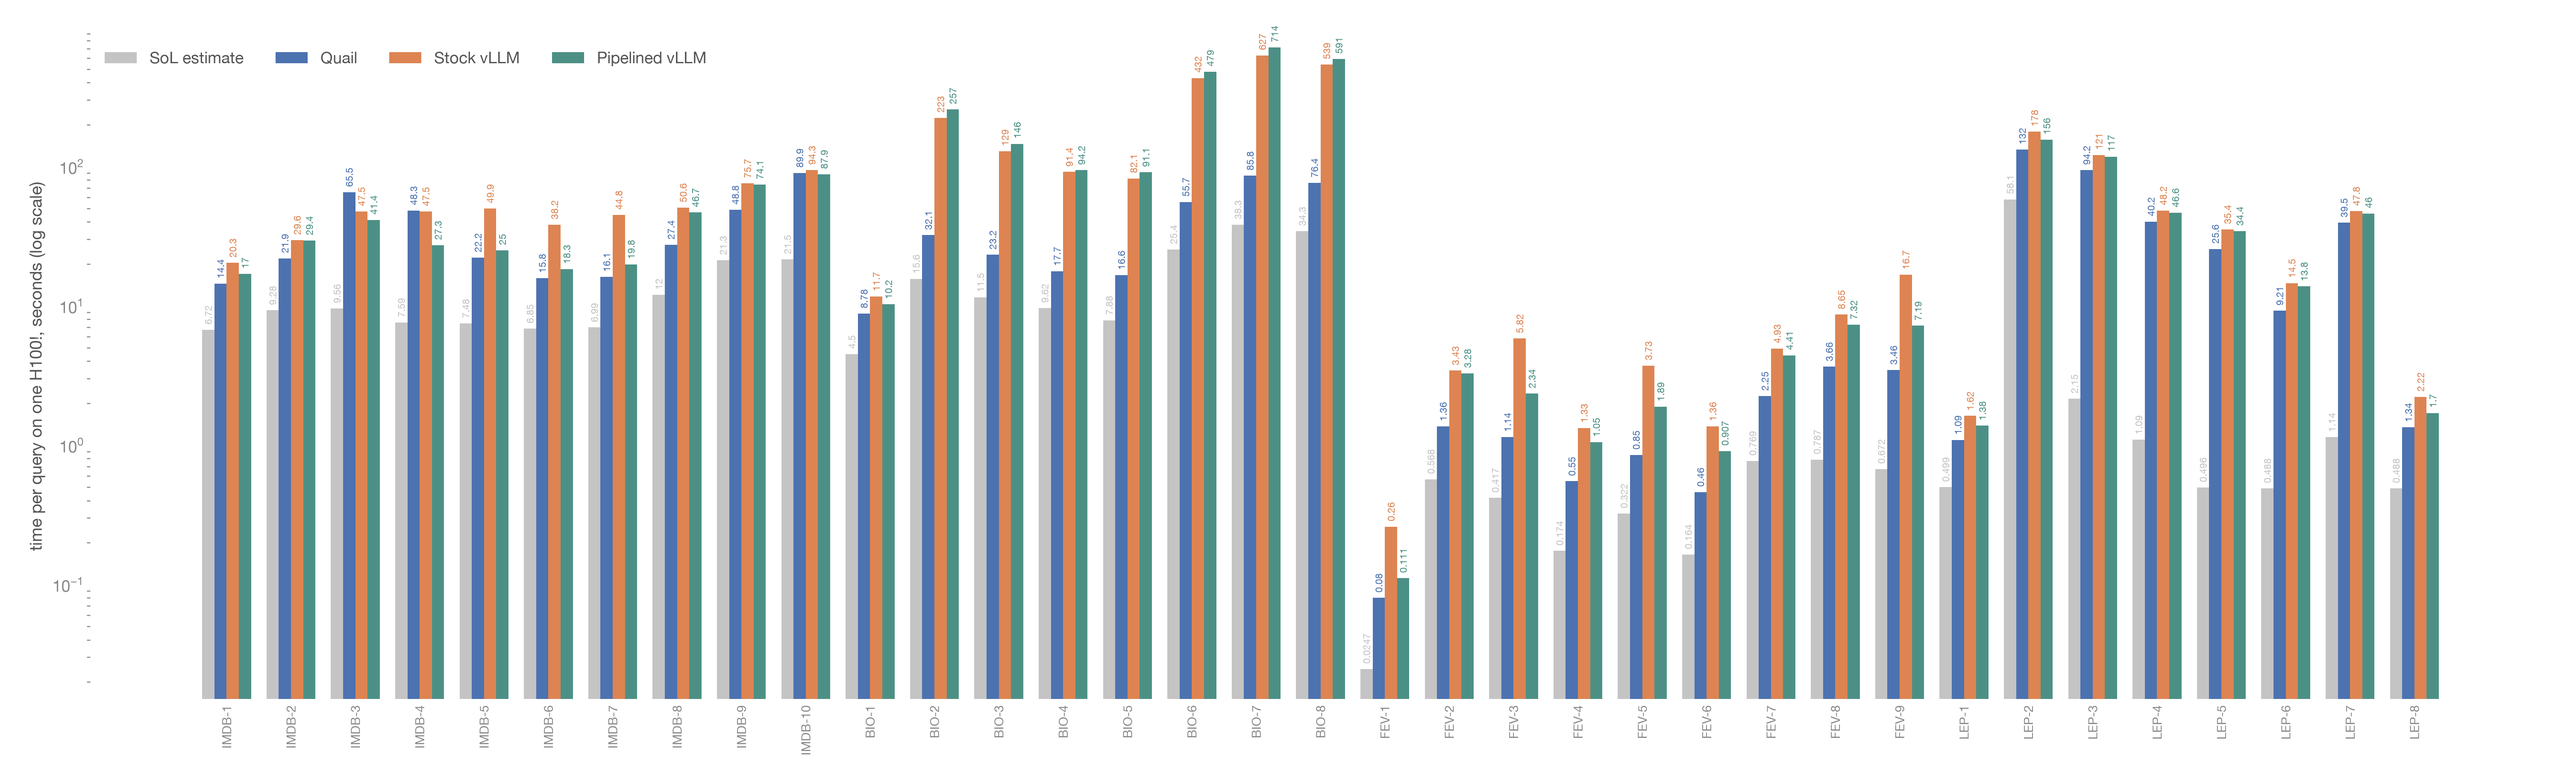
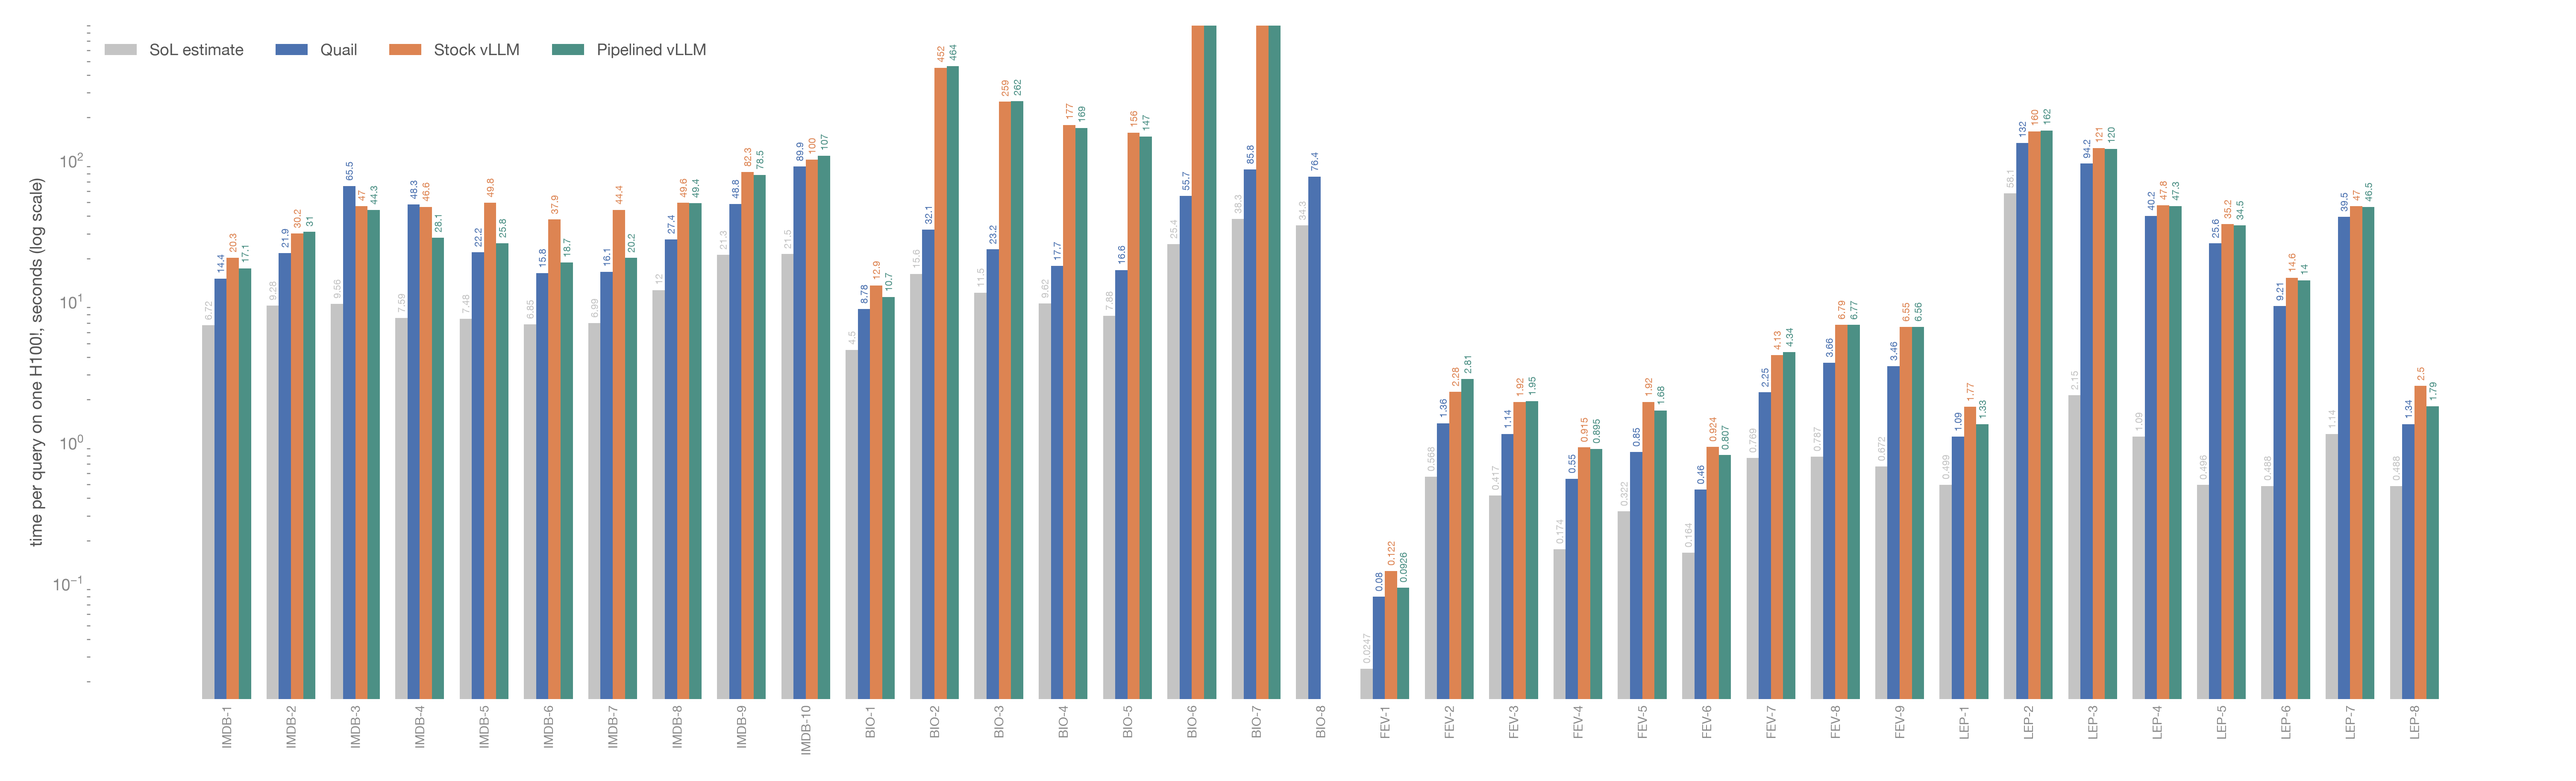
Regenerate QuailB comparison plot

diff --git a/reports/make_quailb_sf01_4b_plots.py b/reports/make_quailb_sf01_4b_plots.py
@@ -6,8 +6,8 @@ work directory to this script:
     W=<workdir>
     modal volume get quail-results benchmarks/quailb/runs/qb_20260827T070457Z_fdd34ac9/20260827T070457Z-quailb-sf0.1-lf1-qwen3-4b-fp8-parallel4.json $W/quail-full.json
     modal volume get quail-results benchmarks/quailb/runs/qb_20260827T081139Z_0518bcfc/20260827T081139Z-quailb-sf0.1-lf1-qwen3-4b-fp8-parallel1.json $W/quail-lepard.json
-    modal volume get quail-results stock_vllm/2026-08-27_canonical_full_bb9aa480/summary.json $W/stock-full.json
-    modal volume get quail-results pipelined_vllm/2026-08-27_015722/summary.json $W/pipelined.json
+    modal volume get quail-results stock_vllm/2026-08-28_paired_except_bio8/summary.json $W/stock-full.json
+    modal volume get quail-results pipelined_vllm/2026-08-28_paired_except_bio8/summary.json $W/pipelined.json
     modal volume get quail-results sol/sol_quailb_sf0.1.json $W/sol.json
     uv run --with matplotlib python reports/make_quailb_sf01_4b_plots.py $W
 """
@@ -66,7 +66,9 @@ def load_inputs(workdir):
             or pipelined["filter_submission"] != "pipelined"
             or pipelined["hf_name"] != "Qwen/Qwen3-4B-FP8"
             or pipelined["sf"] != 0.1
-            or pipelined["checkpoint"] != "pre-quantized FP8"):
+            or pipelined["checkpoint"] != "pre-quantized FP8"
+            or pipelined.get("prompt_layout")
+            != "canonical document-first Quail filter and join prompts"):
         raise ValueError("unexpected pipelined vLLM configuration")
     if sol["scale_factor"] != 0.1 or sol["query_count"] != 35:
         raise ValueError("unexpected SoL configuration")
@@ -83,13 +85,20 @@ def load_inputs(workdir):
             or set(order) != set(stock)
             or set(order) != set(pipelined_rows)):
         raise ValueError("measured query coverage does not match")
+    for baseline in (stock_full, pipelined):
+        if baseline.get("paired_run", {}).get("missing_queries") != ["BIO-8"]:
+            raise ValueError("expected BIO-8 to be the only missing baseline query")
+
+    def seconds(rows, query):
+        value = rows[query]["total_wall_s"]
+        return np.nan if value is None else value
 
     results = {
         "SoL estimate": [sol["queries"][query]["models"][MODEL]["sol_s"]
                          for query in order],
         "Quail": [quail[query]["wall_s"] for query in order],
-        "Stock vLLM": [stock[query]["total_wall_s"] for query in order],
-        "Pipelined vLLM": [pipelined_rows[query]["total_wall_s"]
+        "Stock vLLM": [seconds(stock, query) for query in order],
+        "Pipelined vLLM": [seconds(pipelined_rows, query)
                             for query in order],
     }
     records = {
@@ -133,14 +142,39 @@ def query_work(system, row, has_joins):
 
 def print_metrics(order, results, records):
     print("\nAggregate metrics")
-    print("| System | Total time (s) | Mean time/query (s) | "
+    print("| System | Measured queries | Total time (s) | Mean time/query (s) | "
           "Mean $/query |")
-    print("|---|---:|---:|---:|")
+    print("|---|---:|---:|---:|---:|")
     for system in SYSTEMS:
-        total = sum(results[system])
-        mean = total / len(order)
+        values = np.asarray(results[system], dtype=float)
+        measured = np.isfinite(values)
+        total = values[measured].sum()
+        mean = values[measured].mean()
         cost = mean * H100_USD_PER_HOUR / 3600
-        print(f"| {system} | {total:.2f} | {mean:.2f} | ${cost:.4f} |")
+        print(f"| {system} | {measured.sum()} | {total:.2f} | {mean:.2f} | "
+              f"${cost:.4f} |")
+
+    print("\nAggregate throughput")
+    print("| System | Query group | Measured queries | Throughput |")
+    print("|---|---|---:|---:|")
+    for group in ("filter only", "join only"):
+        for system in ("Quail", "Stock vLLM", "Pipelined vLLM"):
+            total_work = 0
+            total_seconds = 0.0
+            measured = 0
+            for index, query in enumerate(order):
+                if query_kind(records["SoL estimate"][query]) != group:
+                    continue
+                seconds = results[system][index]
+                if not np.isfinite(seconds):
+                    continue
+                total_work += query_work(
+                    system, records[system][query], group == "join only")
+                total_seconds += seconds
+                measured += 1
+            unit = "docs/s" if group == "filter only" else "pairs/s"
+            print(f"| {system} | {group} | {measured} | "
+                  f"{total_work / total_seconds:,.1f} {unit} |")
 
     print("\nPer-query metrics")
     print("| Query | Operators | Unit | SoL estimate | Quail | "
@@ -154,6 +188,9 @@ def print_metrics(order, results, records):
         cells = []
         for system in SYSTEMS:
             seconds = results[system][index]
+            if not np.isfinite(seconds):
+                cells.append("not measured")
+                continue
             work = query_work(system, records[system][query], has_joins)
             throughput = work / seconds
             cost = seconds * H100_USD_PER_HOUR / 3600
@@ -177,6 +214,8 @@ def main(workdir):
         bars = ax.bar(x + offset * width, values, width,
                       color=color, label=system)
         for bar, value in zip(bars, values):
+            if not np.isfinite(value):
+                continue
             ax.annotate(
                 f"{value:.3g}",
                 (bar.get_x() + bar.get_width() / 2, value),

diff --git a/reports/2026-08-27-quailb-sf01-4b.md b/reports/2026-08-27-quailb-sf01-4b.md
@@ -11,8 +11,12 @@
   `generate()` call. Joins use the full document cross product.
 - Pipelined vLLM submits the next filter as soon as each document passes its
   current filter. It uses the same join code as stock vLLM.
+- Both vLLM configurations ran in the same model process for each dataset.
+  KV was cleared before each query and configuration.
 - All three measured systems use the same document first filter and join
   prompts.
+- Stock vLLM and pipelined vLLM measured 34 queries. BIO-8 is not measured.
+  The BioDEX process timed out after BIO-7, and the BIO-8 rerun was cancelled.
 - The SoL estimate uses ground truth survivor counts. It is an estimate of the
   required model work. It is not the output of the production planner.
 - The measured runs predate the fixed selectivity estimates and use the query
@@ -25,42 +29,35 @@ The measured inputs are:
   `/results/benchmarks/quailb/runs/qb_20260827T070457Z_fdd34ac9/20260827T070457Z-quailb-sf0.1-lf1-qwen3-4b-fp8-parallel4.json`
 - Revised LePaRD Quail results:
   `/results/benchmarks/quailb/runs/qb_20260827T081139Z_0518bcfc/20260827T081139Z-quailb-sf0.1-lf1-qwen3-4b-fp8-parallel1.json`
-- Corrected stock vLLM:
-  `/results/stock_vllm/2026-08-27_canonical_full_bb9aa480/summary.json`
+- Paired stock vLLM:
+  `/results/stock_vllm/2026-08-28_paired_except_bio8/summary.json`
 - Pipelined vLLM:
-  `/results/pipelined_vllm/2026-08-27_015722/summary.json`
+  `/results/pipelined_vllm/2026-08-28_paired_except_bio8/summary.json`
 - SoL:
   `/results/sol/sol_quailb_sf0.1.json`
 
 ## Prediction
 
-The old stock vLLM filter prompt had the task before the document. Quail and
-pipelined vLLM used the document first prompt. Rerunning stock vLLM with the
-canonical prompt should make its survivor counts match pipelined vLLM. It
-should also reduce the apparent Quail speedup on the affected queries.
-
-LEP-2 was also stale after the LePaRD corpus changed. The corrected LEP-2 run
-should evaluate 500 times 433, or 216,500, document pairs. Its time should be
-close to the 155.50 second pipelined vLLM result because the two systems use the
-same join code.
+Pipelined filter submission should reduce filter only time compared with stock
+vLLM stage major waves. Join only times should remain close because both
+configurations use the same join code.
 
 ## Result
 
 The prediction was correct.
 
-- Stock vLLM and pipelined vLLM perform the same number of filter and join
-  evaluations on 34 of 35 queries.
-- BIO-4 differs by one filter decision out of 313 filter evaluations. The
-  prompt token ids are identical. The different batching schedule changed one
-  fp8 decision.
-- On the 18 filter queries whose corpora did not change, the geometric mean
-  stock vLLM to Quail runtime ratio fell from 3.02 times to 2.69 times. The
-  geometric mean gives every query equal weight.
-- LEP-2 evaluated the expected 216,500 pairs. It took 177.67 seconds, compared
-  with 155.50 seconds for pipelined vLLM.
-- Across all 35 queries, Quail took 1,043.52 seconds. Stock vLLM took 3,128.62
-  seconds. Pipelined vLLM took 3,214.50 seconds.
-- Quail was faster than stock vLLM on 33 of 35 queries.
+- Across the seven filter only queries, pipelined vLLM processed 233.2 input
+  documents per second. Stock vLLM processed 136.0.
+- Across the ten join only queries, pipelined vLLM processed 425.2 document
+  pairs per second. Stock vLLM processed 421.1.
+- Across the 34 queries measured by both baselines, Quail took 967.11 seconds.
+  Stock vLLM took 4,301.37 seconds. Pipelined vLLM took 4,162.49 seconds.
+- Quail was 4.45 times faster than stock vLLM and 4.30 times faster than
+  pipelined vLLM on those 34 queries, using total time.
+- Quail was faster than each vLLM configuration on 32 of the 34 measured
+  queries.
+- BIO-8 remains null for both vLLM configurations. The plot does not draw bars
+  for these missing values.
 
 Figure: plots/quailb_sf01_4b_runtime.png
 
@@ -69,18 +66,18 @@ of magnitude.
 
 ## Aggregate metrics
 
-| System | Total time (s) | Mean time/query (s) | Mean $/query |
-|---|---:|---:|---:|
-| SoL estimate | 324.65 | 9.28 | $0.0102 |
-| Quail | 1,043.52 | 29.81 | $0.0327 |
-| Stock vLLM | 3,128.62 | 89.39 | $0.0981 |
-| Pipelined vLLM | 3,214.50 | 91.84 | $0.1008 |
+| System | Measured queries | Total time (s) | Mean time/query (s) | Mean $/query |
+|---|---:|---:|---:|---:|
+| SoL estimate | 35 | 324.64 | 9.28 | $0.0102 |
+| Quail | 35 | 1,043.52 | 29.81 | $0.0327 |
+| Stock vLLM | 34 | 4,301.37 | 126.51 | $0.1388 |
+| Pipelined vLLM | 34 | 4,162.49 | 122.43 | $0.1343 |
 
-For the seven filter only queries, Quail processed 468.4 input documents per
-second in total. Stock vLLM processed 226.6. Pipelined vLLM processed 394.0.
+For the seven filter only queries, Quail processed 283.3 input documents per
+second in total. Stock vLLM processed 136.0. Pipelined vLLM processed 233.2.
 
 For the ten join only queries, Quail processed 3,136.6 document pairs per
-second in total. Stock vLLM processed 790.9. Pipelined vLLM processed 729.3.
+second in total. Stock vLLM processed 421.1. Pipelined vLLM processed 425.2.
 
 ## Per query metrics
 
@@ -91,41 +88,41 @@ filter decisions can change the number of pairs that reach a join.
 
 | Query | Operators | Unit | SoL estimate | Quail | Stock vLLM | Pipelined vLLM |
 |---|---|---|---:|---:|---:|---:|
-| IMDB-1 | filter only | docs/s | 6.72 s; 743.8; $0.0074 | 14.41 s; 347.0; $0.0158 | 20.34 s; 245.8; $0.0223 | 16.97 s; 294.6; $0.0186 |
-| IMDB-2 | join only | pairs/s | 9.28 s; 6,465.1; $0.0102 | 21.91 s; 2,738.5; $0.0240 | 29.65 s; 2,023.9; $0.0325 | 29.43 s; 2,039.0; $0.0323 |
-| IMDB-3 | filter + join | pairs/s | 9.56 s; 5,023.4; $0.0105 | 65.47 s; 802.8; $0.0718 | 47.50 s; 1,104.9; $0.0521 | 41.40 s; 1,267.9; $0.0454 |
-| IMDB-4 | filter + join | pairs/s | 7.59 s; 1,625.7; $0.0083 | 48.32 s; 312.9; $0.0530 | 47.52 s; 321.5; $0.0521 | 27.25 s; 560.6; $0.0299 |
-| IMDB-5 | filter + join | pairs/s | 7.48 s; 1,073.9; $0.0082 | 22.19 s; 394.2; $0.0243 | 49.86 s; 179.3; $0.0547 | 25.04 s; 357.1; $0.0275 |
-| IMDB-6 | filter only | docs/s | 6.85 s; 730.0; $0.0075 | 15.76 s; 317.3; $0.0173 | 38.23 s; 130.8; $0.0419 | 18.31 s; 273.1; $0.0201 |
-| IMDB-7 | filter only | docs/s | 6.99 s; 715.2; $0.0077 | 16.08 s; 310.9; $0.0176 | 44.82 s; 111.6; $0.0492 | 19.84 s; 252.0; $0.0218 |
-| IMDB-8 | join only | pairs/s | 11.97 s; 8,721.1; $0.0131 | 27.44 s; 3,572.9; $0.0301 | 50.62 s; 1,969.7; $0.0555 | 46.71 s; 2,134.2; $0.0512 |
-| IMDB-9 | join only | pairs/s | 21.25 s; 7,736.0; $0.0233 | 48.79 s; 3,239.2; $0.0535 | 75.71 s; 2,109.2; $0.0831 | 74.08 s; 2,155.7; $0.0813 |
-| IMDB-10 | filter + join | pairs/s | 21.54 s; 7,078.9; $0.0236 | 89.88 s; 1,675.6; $0.0986 | 94.27 s; 1,614.4; $0.1034 | 87.92 s; 1,731.0; $0.0964 |
-| BIO-1 | filter only | docs/s | 4.50 s; 44.5; $0.0049 | 8.78 s; 22.8; $0.0096 | 11.68 s; 17.1; $0.0128 | 10.24 s; 19.5; $0.0112 |
-| BIO-2 | join only | pairs/s | 15.59 s; 7,875.9; $0.0171 | 32.15 s; 3,819.6; $0.0353 | 223.31 s; 549.9; $0.2450 | 256.91 s; 478.0; $0.2818 |
-| BIO-3 | filter + join | pairs/s | 11.48 s; 6,577.5; $0.0126 | 23.24 s; 2,932.6; $0.0255 | 128.69 s; 539.2; $0.1412 | 145.52 s; 476.8; $0.1596 |
-| BIO-4 | filter + join | pairs/s | 9.62 s; 5,680.5; $0.0106 | 17.70 s; 2,532.3; $0.0194 | 91.35 s; 483.9; $0.1002 | 94.18 s; 462.9; $0.1033 |
-| BIO-5 | filter + join | pairs/s | 7.88 s; 4,677.2; $0.0086 | 16.61 s; 2,328.8; $0.0182 | 82.14 s; 463.5; $0.0901 | 91.08 s; 418.0; $0.0999 |
-| BIO-6 | join only | pairs/s | 25.39 s; 9,187.7; $0.0279 | 55.66 s; 4,412.5; $0.0611 | 431.85 s; 567.3; $0.4737 | 478.95 s; 511.5; $0.5254 |
-| BIO-7 | join only | pairs/s | 38.26 s; 8,513.0; $0.0420 | 85.76 s; 4,162.2; $0.0941 | 627.09 s; 568.9; $0.6879 | 714.40 s; 499.4; $0.7837 |
-| BIO-8 | filter + join | pairs/s | 34.35 s; 8,217.1; $0.0377 | 76.41 s; 3,938.0; $0.0838 | 539.30 s; 561.3; $0.5916 | 590.91 s; 512.3; $0.6482 |
-| FEV-1 | filter only | docs/s | 0.02 s; 4,051.5; $0.0000 | 0.08 s; 1,250.0; $0.0001 | 0.26 s; 384.8; $0.0003 | 0.11 s; 902.9; $0.0001 |
-| FEV-2 | join only | pairs/s | 0.57 s; 10,031.2; $0.0006 | 1.36 s; 4,191.2; $0.0015 | 3.43 s; 1,662.4; $0.0038 | 3.28 s; 1,739.4; $0.0036 |
-| FEV-3 | filter + join | pairs/s | 0.42 s; 8,738.5; $0.0005 | 1.14 s; 3,800.0; $0.0013 | 5.82 s; 754.1; $0.0064 | 2.34 s; 1,872.0; $0.0026 |
-| FEV-4 | filter + join | pairs/s | 0.17 s; 3,277.4; $0.0002 | 0.55 s; 1,554.5; $0.0006 | 1.33 s; 688.3; $0.0015 | 1.05 s; 869.2; $0.0012 |
-| FEV-5 | filter + join | pairs/s | 0.32 s; 7,351.5; $0.0004 | 0.85 s; 3,397.6; $0.0009 | 3.73 s; 785.5; $0.0041 | 1.89 s; 1,548.6; $0.0021 |
-| FEV-6 | filter + join | pairs/s | 0.16 s; 2,254.8; $0.0002 | 0.46 s; 1,239.1; $0.0005 | 1.36 s; 446.3; $0.0015 | 0.91 s; 670.0; $0.0010 |
-| FEV-7 | join only | pairs/s | 0.77 s; 9,116.5; $0.0008 | 2.25 s; 4,104.0; $0.0025 | 4.93 s; 1,862.9; $0.0054 | 4.41 s; 2,081.8; $0.0048 |
-| FEV-8 | join only | pairs/s | 0.79 s; 9,160.4; $0.0009 | 3.66 s; 4,376.2; $0.0040 | 8.65 s; 1,871.6; $0.0095 | 7.32 s; 2,211.9; $0.0080 |
-| FEV-9 | filter + join | pairs/s | 0.67 s; 8,296.9; $0.0007 | 3.46 s; 4,233.8; $0.0038 | 16.69 s; 891.5; $0.0183 | 7.19 s; 2,068.3; $0.0079 |
-| LEP-1 | filter only | docs/s | 0.50 s; 1,002.4; $0.0005 | 1.09 s; 458.7; $0.0012 | 1.62 s; 308.2; $0.0018 | 1.38 s; 362.9; $0.0015 |
-| LEP-2 | join only | pairs/s | 58.09 s; 3,726.7; $0.0637 | 131.93 s; 1,641.0; $0.1447 | 177.67 s; 1,218.5; $0.1949 | 155.50 s; 1,392.2; $0.1706 |
-| LEP-3 | filter + join | pairs/s | 2.15 s; 2,818.7; $0.0024 | 94.24 s; 1,635.7; $0.1034 | 121.08 s; 1,348.2; $0.1328 | 117.48 s; 1,389.5; $0.1289 |
-| LEP-4 | filter + join | pairs/s | 1.09 s; 1,983.2; $0.0012 | 40.22 s; 1,614.9; $0.0441 | 48.23 s; 1,364.6; $0.0529 | 46.62 s; 1,411.6; $0.0511 |
-| LEP-5 | filter + join | pairs/s | 0.50 s; 0.0; $0.0005 | 25.61 s; 1,572.4; $0.0281 | 35.37 s; 1,346.6; $0.0388 | 34.45 s; 1,382.7; $0.0378 |
-| LEP-6 | filter + join | pairs/s | 0.49 s; 0.0; $0.0005 | 9.21 s; 1,410.4; $0.0101 | 14.51 s; 1,223.2; $0.0159 | 13.76 s; 1,289.8; $0.0151 |
-| LEP-7 | filter + join | pairs/s | 1.14 s; 1,542.0; $0.0012 | 39.51 s; 1,594.5; $0.0433 | 47.81 s; 1,338.4; $0.0525 | 45.97 s; 1,392.0; $0.0504 |
-| LEP-8 | filter only | docs/s | 0.49 s; 1,023.7; $0.0005 | 1.34 s; 373.1; $0.0015 | 2.22 s; 224.9; $0.0024 | 1.70 s; 294.1; $0.0019 |
+| IMDB-1 | filter only | docs/s | 6.72 s; 743.9; $0.0074 | 14.41 s; 347.0; $0.0158 | 20.32 s; 246.1; $0.0223 | 17.06 s; 293.0; $0.0187 |
+| IMDB-2 | join only | pairs/s | 9.28 s; 6,465.5; $0.0102 | 21.91 s; 2,738.5; $0.0240 | 30.16 s; 1,989.4; $0.0331 | 30.96 s; 1,938.3; $0.0340 |
+| IMDB-3 | filter + join | pairs/s | 9.56 s; 5,023.7; $0.0105 | 65.47 s; 802.8; $0.0718 | 46.95 s; 1,117.9; $0.0515 | 44.27 s; 1,185.6; $0.0486 |
+| IMDB-4 | filter + join | pairs/s | 7.59 s; 1,625.8; $0.0083 | 48.32 s; 312.9; $0.0530 | 46.59 s; 327.9; $0.0511 | 28.14 s; 542.9; $0.0309 |
+| IMDB-5 | filter + join | pairs/s | 7.48 s; 1,074.0; $0.0082 | 22.19 s; 394.2; $0.0243 | 49.85 s; 179.3; $0.0547 | 25.75 s; 347.1; $0.0283 |
+| IMDB-6 | filter only | docs/s | 6.85 s; 730.1; $0.0075 | 15.76 s; 317.3; $0.0173 | 37.85 s; 132.1; $0.0415 | 18.72 s; 267.2; $0.0205 |
+| IMDB-7 | filter only | docs/s | 6.99 s; 715.2; $0.0077 | 16.08 s; 310.9; $0.0176 | 44.38 s; 112.7; $0.0487 | 20.21 s; 247.4; $0.0222 |
+| IMDB-8 | join only | pairs/s | 11.97 s; 8,721.5; $0.0131 | 27.44 s; 3,572.9; $0.0301 | 49.64 s; 2,008.4; $0.0545 | 49.40 s; 2,018.2; $0.0542 |
+| IMDB-9 | join only | pairs/s | 21.25 s; 7,736.4; $0.0233 | 48.79 s; 3,239.2; $0.0535 | 82.29 s; 1,940.7; $0.0903 | 78.54 s; 2,033.2; $0.0862 |
+| IMDB-10 | filter + join | pairs/s | 21.54 s; 7,079.3; $0.0236 | 89.88 s; 1,675.6; $0.0986 | 100.42 s; 1,515.5; $0.1102 | 107.03 s; 1,421.9; $0.1174 |
+| BIO-1 | filter only | docs/s | 4.50 s; 44.5; $0.0049 | 8.78 s; 22.8; $0.0096 | 12.92 s; 15.5; $0.0142 | 10.69 s; 18.7; $0.0117 |
+| BIO-2 | join only | pairs/s | 15.59 s; 7,876.2; $0.0171 | 32.15 s; 3,819.6; $0.0353 | 451.71 s; 271.9; $0.4955 | 463.62 s; 264.9; $0.5086 |
+| BIO-3 | filter + join | pairs/s | 11.48 s; 6,577.8; $0.0126 | 23.24 s; 2,932.6; $0.0255 | 258.91 s; 268.0; $0.2840 | 262.09 s; 264.7; $0.2875 |
+| BIO-4 | filter + join | pairs/s | 9.62 s; 5,680.7; $0.0106 | 17.70 s; 2,532.3; $0.0194 | 177.25 s; 249.4; $0.1944 | 168.72 s; 258.4; $0.1851 |
+| BIO-5 | filter + join | pairs/s | 7.88 s; 4,677.3; $0.0086 | 16.61 s; 2,328.8; $0.0182 | 156.47 s; 243.3; $0.1716 | 146.73 s; 259.4; $0.1610 |
+| BIO-6 | join only | pairs/s | 25.39 s; 9,188.0; $0.0279 | 55.66 s; 4,412.5; $0.0611 | 925.75 s; 264.6; $1.0155 | 912.66 s; 267.8; $1.0012 |
+| BIO-7 | join only | pairs/s | 38.26 s; 8,513.3; $0.0420 | 85.76 s; 4,162.2; $0.0941 | 1,354.27 s; 263.4; $1.4856 | 1,324.43 s; 269.4; $1.4529 |
+| BIO-8 | filter + join | pairs/s | 34.35 s; 8,217.4; $0.0377 | 76.41 s; 3,938.0; $0.0838 | not measured | not measured |
+| FEV-1 | filter only | docs/s | 0.02 s; 4,051.7; $0.0000 | 0.08 s; 1,250.0; $0.0001 | 0.12 s; 820.2; $0.0001 | 0.09 s; 1,080.4; $0.0001 |
+| FEV-2 | join only | pairs/s | 0.57 s; 10,031.7; $0.0006 | 1.36 s; 4,191.2; $0.0015 | 2.28 s; 2,503.5; $0.0025 | 2.81 s; 2,030.9; $0.0031 |
+| FEV-3 | filter + join | pairs/s | 0.42 s; 8,738.9; $0.0005 | 1.14 s; 3,800.0; $0.0013 | 1.92 s; 2,288.9; $0.0021 | 1.95 s; 2,246.0; $0.0021 |
+| FEV-4 | filter + join | pairs/s | 0.17 s; 3,277.6; $0.0002 | 0.55 s; 1,554.5; $0.0006 | 0.92 s; 996.2; $0.0010 | 0.90 s; 1,018.7; $0.0010 |
+| FEV-5 | filter + join | pairs/s | 0.32 s; 7,351.9; $0.0004 | 0.85 s; 3,397.6; $0.0009 | 1.92 s; 1,521.8; $0.0021 | 1.68 s; 1,746.7; $0.0018 |
+| FEV-6 | filter + join | pairs/s | 0.16 s; 2,255.0; $0.0002 | 0.46 s; 1,239.1; $0.0005 | 0.92 s; 658.3; $0.0010 | 0.81 s; 753.1; $0.0009 |
+| FEV-7 | join only | pairs/s | 0.77 s; 9,116.9; $0.0008 | 2.25 s; 4,104.0; $0.0025 | 4.13 s; 2,221.8; $0.0045 | 4.34 s; 2,113.2; $0.0048 |
+| FEV-8 | join only | pairs/s | 0.79 s; 9,160.9; $0.0009 | 3.66 s; 4,376.2; $0.0040 | 6.79 s; 2,384.3; $0.0074 | 6.77 s; 2,392.6; $0.0074 |
+| FEV-9 | filter + join | pairs/s | 0.67 s; 8,297.3; $0.0007 | 3.46 s; 4,233.8; $0.0038 | 6.55 s; 2,269.8; $0.0072 | 6.56 s; 2,266.3; $0.0072 |
+| LEP-1 | filter only | docs/s | 0.50 s; 1,002.4; $0.0005 | 1.09 s; 458.7; $0.0012 | 1.77 s; 281.7; $0.0019 | 1.33 s; 374.8; $0.0015 |
+| LEP-2 | join only | pairs/s | 58.09 s; 3,726.9; $0.0637 | 131.93 s; 1,641.0; $0.1447 | 159.83 s; 1,354.6; $0.1753 | 162.09 s; 1,335.7; $0.1778 |
+| LEP-3 | filter + join | pairs/s | 2.15 s; 2,818.9; $0.0024 | 94.24 s; 1,635.7; $0.1034 | 121.36 s; 1,345.1; $0.1331 | 120.08 s; 1,359.5; $0.1317 |
+| LEP-4 | filter + join | pairs/s | 1.09 s; 1,983.3; $0.0012 | 40.22 s; 1,614.9; $0.0441 | 47.76 s; 1,378.0; $0.0524 | 47.26 s; 1,392.7; $0.0518 |
+| LEP-5 | filter + join | pairs/s | 0.50 s; 0.0; $0.0005 | 25.61 s; 1,572.4; $0.0281 | 35.18 s; 1,353.8; $0.0386 | 34.53 s; 1,379.3; $0.0379 |
+| LEP-6 | filter + join | pairs/s | 0.49 s; 0.0; $0.0005 | 9.21 s; 1,410.4; $0.0101 | 14.64 s; 1,212.6; $0.0161 | 14.01 s; 1,266.8; $0.0154 |
+| LEP-7 | filter + join | pairs/s | 1.14 s; 1,542.1; $0.0012 | 39.51 s; 1,594.5; $0.0433 | 47.05 s; 1,360.1; $0.0516 | 46.47 s; 1,377.2; $0.0510 |
+| LEP-8 | filter only | docs/s | 0.49 s; 1,023.8; $0.0005 | 1.34 s; 373.1; $0.0015 | 2.50 s; 199.7; $0.0027 | 1.79 s; 279.1; $0.0020 |
 
 LEP-5 and LEP-6 have zero SoL join throughput because the ground truth filters
 leave no pairs for those joins. The measured 4B model makes different filter
